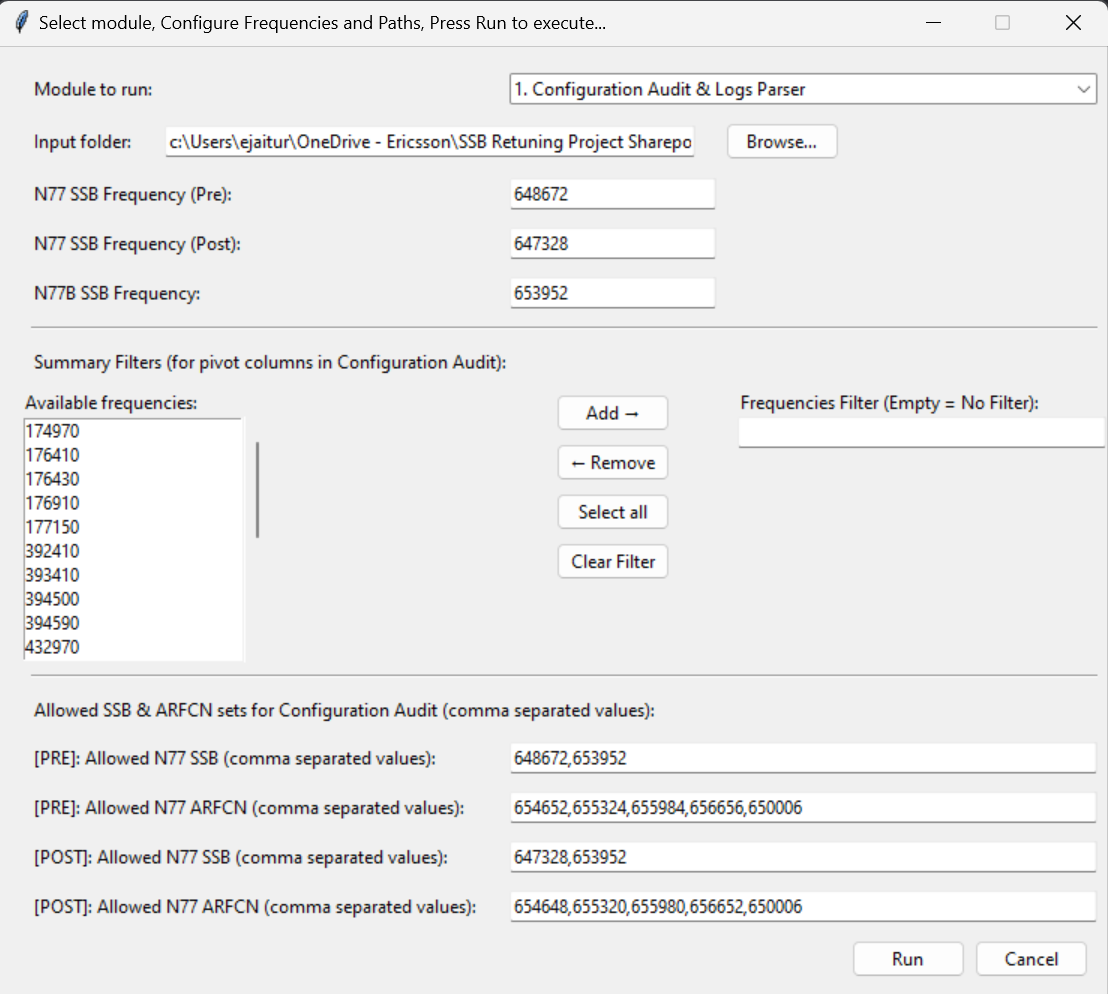
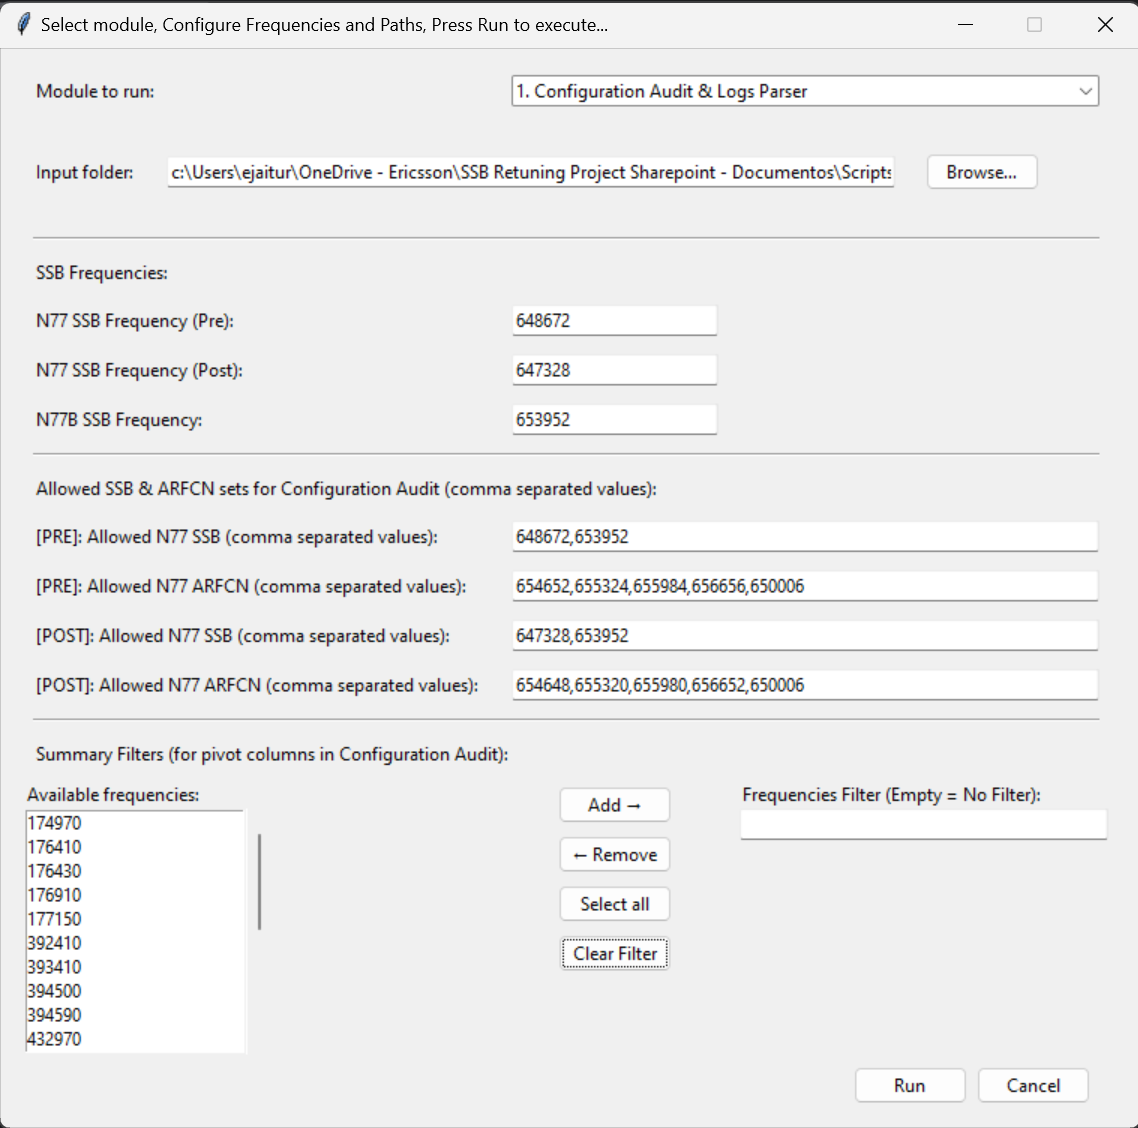
- Fixed Long path issues on Windows. - Redesigned GUI Dialog.

diff --git a/src/RetuningAutomations.py b/src/RetuningAutomations.py
@@ -29,7 +29,7 @@ from pathlib import Path
 # Import our different Classes
 from src.utils.utils_datetime import format_duration_hms
 from src.utils.utils_infrastructure import LoggerDual
-from src.utils.utils_io import normalize_csv_list, parse_arfcn_csv_to_set, load_cfg_values, save_cfg_values, log_module_exception
+from src.utils.utils_io import normalize_csv_list, parse_arfcn_csv_to_set, load_cfg_values, save_cfg_values, log_module_exception, to_long_path, pretty_path
 
 from src.modules.ConsistencyChecks.ConsistencyChecks import ConsistencyChecks
 from src.modules.ConfigurationAudit import ConfigurationAudit
@@ -194,7 +194,7 @@ def gui_config_dialog(
     # Center window
     try:
         root.update_idletasks()
-        w, h = 740, 680
+        w, h = 760, 720
         sw = root.winfo_screenwidth()
         sh = root.winfo_screenheight()
         x = (sw // 2) - (w // 2)
@@ -228,22 +228,29 @@ def gui_config_dialog(
     cmb = ttk.Combobox(frm, textvariable=module_var, values=MODULE_NAMES, state="readonly", width=50)
     cmb.grid(row=0, column=1, columnspan=2, sticky="ew", **pad)
 
-    # Single-input frame
-    single_frame = ttk.Frame(frm)
-    ttk.Label(single_frame, text="Input folder:").grid(row=0, column=0, sticky="w", **pad)
-    ttk.Entry(single_frame, textvariable=input_var, width=58).grid(row=0, column=1, sticky="ew", **pad)
-
     def browse_single():
         path = filedialog.askdirectory(title="Select input folder", initialdir=input_var.get() or os.getcwd())
         if path:
             input_var.set(path)
 
-    ttk.Button(single_frame, text="Browse…", command=browse_single).grid(row=0, column=2, sticky="ew", **pad)
+    # Single-input frame
+    single_frame = ttk.Frame(frm)
+
+    # Spacer row so single_frame has similar height to dual_frame
+    ttk.Label(single_frame, text="").grid(row=0, column=0, columnspan=3, sticky="w")
+
+    # Single-input frame
+    ttk.Label(single_frame, text="Input folder:").grid(row=1, column=0, sticky="w", **pad)
+    ttk.Entry(single_frame, textvariable=input_var, width=80).grid(row=1, column=1, sticky="ew", **pad)
+    ttk.Button(single_frame, text="Browse…", command=browse_single).grid(row=1, column=2, sticky="ew", **pad)
+
+    # Spacer row so single_frame has similar height to dual_frame
+    ttk.Label(single_frame, text="").grid(row=2, column=0, columnspan=3, sticky="w")
 
     # Dual-input frame
     dual_frame = ttk.Frame(frm)
     ttk.Label(dual_frame, text="Pre input folder:").grid(row=0, column=0, sticky="w", **pad)
-    ttk.Entry(dual_frame, textvariable=input_pre_var, width=58).grid(row=0, column=1, sticky="ew", **pad)
+    ttk.Entry(dual_frame, textvariable=input_pre_var, width=80).grid(row=0, column=1, sticky="ew", **pad)
 
     def browse_pre():
         path = filedialog.askdirectory(title="Select PRE input folder", initialdir=input_pre_var.get() or os.getcwd())
@@ -253,7 +260,7 @@ def gui_config_dialog(
     ttk.Button(dual_frame, text="Browse…", command=browse_pre).grid(row=0, column=2, sticky="ew", **pad)
 
     ttk.Label(dual_frame, text="Post input folder:").grid(row=1, column=0, sticky="w", **pad)
-    ttk.Entry(dual_frame, textvariable=input_post_var, width=58).grid(row=1, column=1, sticky="ew", **pad)
+    ttk.Entry(dual_frame, textvariable=input_post_var, width=80).grid(row=1, column=1, sticky="ew", **pad)
 
     def browse_post():
         path = filedialog.askdirectory(title="Select POST input folder", initialdir=input_post_var.get() or os.getcwd())
@@ -274,23 +281,39 @@ def gui_config_dialog(
     refresh_input_mode()
 
     # Frecuencias
-    ttk.Label(frm, text="N77 SSB Frequency (Pre):").grid(row=2, column=0, sticky="w", **pad)
-    ttk.Entry(frm, textvariable=n77_ssb_pre_var, width=22).grid(row=2, column=1, sticky="w", **pad)
+    ttk.Separator(frm).grid(row=2, column=0, columnspan=3, sticky="ew", **pad)
+    ttk.Label(frm, text="SSB Frequencies:").grid(row=3, column=0, columnspan=3, sticky="w", **pad)
+    ttk.Label(frm, text="N77 SSB Frequency (Pre):").grid(row=4, column=0, sticky="w", **pad)
+    ttk.Entry(frm, textvariable=n77_ssb_pre_var, width=22).grid(row=4, column=1, sticky="w", **pad)
 
-    ttk.Label(frm, text="N77 SSB Frequency (Post):").grid(row=3, column=0, sticky="w", **pad)
-    ttk.Entry(frm, textvariable=n77_ssb_post_var, width=22).grid(row=3, column=1, sticky="w", **pad)
+    ttk.Label(frm, text="N77 SSB Frequency (Post):").grid(row=5, column=0, sticky="w", **pad)
+    ttk.Entry(frm, textvariable=n77_ssb_post_var, width=22).grid(row=5, column=1, sticky="w", **pad)
 
-    ttk.Label(frm, text="N77B SSB Frequency:").grid(row=4, column=0, sticky="w", **pad)
-    ttk.Entry(frm, textvariable=n77b_ssb_var, width=22).grid(row=4, column=1, sticky="w", **pad)
+    ttk.Label(frm, text="N77B SSB Frequency:").grid(row=6, column=0, sticky="w", **pad)
+    ttk.Entry(frm, textvariable=n77b_ssb_var, width=22).grid(row=6, column=1, sticky="w", **pad)
+
+    # ARFCN lists
+    ttk.Separator(frm).grid(row=7, column=0, columnspan=3, sticky="ew", **pad)
+    ttk.Label(frm, text="Allowed SSB & ARFCN sets for Configuration Audit (comma separated values):").grid(row=8, column=0, columnspan=3, sticky="w", **pad)
+
+    ttk.Label(frm, text="[PRE]: Allowed N77 SSB (comma separated values):").grid(row=9, column=0, sticky="w", **pad)
+    ttk.Entry(frm, textvariable=allowed_n77_ssb_pre_var, width=40).grid(row=9, column=1, columnspan=2, sticky="ew", **pad)
+
+    ttk.Label(frm, text="[PRE]: Allowed N77 ARFCN (comma separated values):").grid(row=10, column=0, sticky="w", **pad)
+    ttk.Entry(frm, textvariable=allowed_n77_arfcn_pre_var, width=40).grid(row=10, column=1, columnspan=2, sticky="ew", **pad)
+
+    ttk.Label(frm, text="[POST]: Allowed N77 SSB (comma separated values):").grid(row=11, column=0, sticky="w", **pad)
+    ttk.Entry(frm, textvariable=allowed_n77_ssb_post_var, width=40).grid(row=11, column=1, columnspan=2, sticky="ew", **pad)
+
+    ttk.Label(frm, text="[POST]: Allowed N77 ARFCN (comma separated values):").grid(row=12, column=0, sticky="w", **pad)
+    ttk.Entry(frm, textvariable=allowed_n77_arfcn_post_var, width=40).grid(row=12, column=1, columnspan=2, sticky="ew", **pad)
 
     # Filtros Summary
-    ttk.Separator(frm).grid(row=5, column=0, columnspan=3, sticky="ew", **pad)
-    ttk.Label(frm, text="Summary Filters (for pivot columns in Configuration Audit):").grid(
-        row=6, column=0, columnspan=3, sticky="w", **pad
-    )
+    ttk.Separator(frm).grid(row=13, column=0, columnspan=3, sticky="ew", **pad)
+    ttk.Label(frm, text="Summary Filters (for pivot columns in Configuration Audit):").grid(row=14, column=0, columnspan=3, sticky="w", **pad)
 
     list_frame = ttk.Frame(frm)
-    list_frame.grid(row=7, column=0, columnspan=1, sticky="nsw", **pad_tight)
+    list_frame.grid(row=15, column=0, columnspan=1, sticky="nsw", **pad_tight)
     ttk.Label(list_frame, text="Available frequencies:").pack(anchor="w")
 
     lb_container = ttk.Frame(list_frame)
@@ -313,10 +336,10 @@ def gui_config_dialog(
     scrollbar.config(command=lb.yview)
 
     btns_frame = ttk.Frame(frm)
-    btns_frame.grid(row=7, column=1, sticky="n", **pad_tight)
+    btns_frame.grid(row=15, column=1, sticky="n", **pad_tight)
 
     right_frame = ttk.Frame(frm)
-    right_frame.grid(row=7, column=2, sticky="nsew", **pad_tight)
+    right_frame.grid(row=15, column=2, sticky="nsew", **pad_tight)
     ttk.Label(right_frame, text="Frequencies Filter (Empty = No Filter):").grid(row=0, column=0, sticky="w")
     ttk.Entry(right_frame, textvariable=selected_csv_var, width=40).grid(row=1, column=0, sticky="ew")
 
@@ -347,26 +370,8 @@ def gui_config_dialog(
     ttk.Button(btns_frame, text="Select all", command=select_all).pack(pady=4, fill="x")
     ttk.Button(btns_frame, text="Clear Filter", command=clear_filters).pack(pady=4, fill="x")
 
-    # ARFCN lists
-    ttk.Separator(frm).grid(row=8, column=0, columnspan=3, sticky="ew", **pad)
-    ttk.Label(frm, text="Allowed SSB & ARFCN sets for Configuration Audit (comma separated values):").grid(
-        row=9, column=0, columnspan=3, sticky="w", **pad
-    )
-
-    ttk.Label(frm, text="[PRE]: Allowed N77 SSB (comma separated values):").grid(row=10, column=0, sticky="w", **pad)
-    ttk.Entry(frm, textvariable=allowed_n77_ssb_pre_var, width=40).grid(row=10, column=1, columnspan=2, sticky="ew", **pad)
-
-    ttk.Label(frm, text="[PRE]: Allowed N77 ARFCN (comma separated values):").grid(row=11, column=0, sticky="w", **pad)
-    ttk.Entry(frm, textvariable=allowed_n77_arfcn_pre_var, width=40).grid(row=11, column=1, columnspan=2, sticky="ew", **pad)
-
-    ttk.Label(frm, text="[POST]: Allowed N77 SSB (comma separated values):").grid(row=12, column=0, sticky="w", **pad)
-    ttk.Entry(frm, textvariable=allowed_n77_ssb_post_var, width=40).grid(row=12, column=1, columnspan=2, sticky="ew", **pad)
-
-    ttk.Label(frm, text="[POST]: Allowed N77 ARFCN (comma separated values):").grid(row=13, column=0, sticky="w", **pad)
-    ttk.Entry(frm, textvariable=allowed_n77_arfcn_post_var, width=40).grid(row=13, column=1, columnspan=2, sticky="ew", **pad)
-
     btns = ttk.Frame(frm)
-    btns.grid(row=14, column=0, columnspan=3, sticky="e", **pad)
+    btns.grid(row=999, column=0, columnspan=3, sticky="e", **pad)
 
     def on_run():
         nonlocal result
@@ -481,11 +486,14 @@ def run_configuration_audit(
 
     module_name = "[Configuration Audit]"
     print(f"{module_name} Running…")
-    print(f"{module_name} Input folder: '{input_dir}'")
+    print(f"{module_name} Input folder: '{pretty_path(input_dir)}'")
     if freq_filters_csv:
         print(f"{module_name} Summary column filters: {freq_filters_csv}")
 
-    # ARFCN principales
+    # Use long-path version for filesystem operations
+    input_dir_fs = to_long_path(input_dir) if input_dir else input_dir
+
+    # SSB Pre/Post
     try:
         n77_ssb_pre = int(n77_ssb_pre) if n77_ssb_pre else int(DEFAULT_N77_SSB_PRE)
     except ValueError:
@@ -549,9 +557,9 @@ def run_configuration_audit(
     versioned_suffix = f"{timestamp}_v{TOOL_VERSION}"
 
     # <<< Create dedicated output folder for ConfigurationAudit >>>
-    output_dir = os.path.join(input_dir, f"ConfigurationAudit_{versioned_suffix}")
+    output_dir = os.path.join(input_dir_fs, f"ConfigurationAudit_{versioned_suffix}")
     os.makedirs(output_dir, exist_ok=True)
-    print(f"{module_name} Output folder: '{output_dir}'")
+    print(f"{module_name} Output folder: '{pretty_path(output_dir)}'")
 
     # Progressive fallback in case the installed ConfigurationAudit has an older signature
     try:
@@ -592,24 +600,29 @@ def run_configuration_audit(
                 )
 
     # <<< Include output_dir in kwargs passed to ConfigurationAudit.run >>>
-    kwargs = dict(module_name=module_name, versioned_suffix=versioned_suffix, tables_order=TABLES_ORDER, output_dir=output_dir)
+    kwargs = dict(
+        module_name=module_name,
+        versioned_suffix=versioned_suffix,
+        tables_order=TABLES_ORDER,
+        output_dir=output_dir,
+    )
     if freq_filters_csv:
         kwargs["filter_frequencies"] = [x.strip() for x in freq_filters_csv.split(",") if x.strip()]
 
     try:
-        out = app.run(input_dir, **kwargs)
+        out = app.run(input_dir_fs, **kwargs)
     except TypeError:
         # Legacy fallback: ConfigurationAudit without output_dir / filters
         print(f"{module_name} [WARN] Installed ConfigurationAudit does not support 'output_dir' and/or 'filter_frequencies'. Running with legacy signature.")
-        out = app.run(input_dir, module_name=module_name, versioned_suffix=versioned_suffix, tables_order=TABLES_ORDER)
+        out = app.run(input_dir_fs, module_name=module_name, versioned_suffix=versioned_suffix, tables_order=TABLES_ORDER)
 
     if out:
-        print(f"{module_name} Done → '{out}'")
-        # <<< Hint about folder when using the new layout >>>
+        print(f"{module_name} Done → '{pretty_path(out)}'")
         if os.path.isdir(output_dir):
-            print(f"{module_name} Outputs saved to: '{output_dir}'")
+            print(f"{module_name} Outputs saved to: '{pretty_path(output_dir)}'")
     else:
         print(f"{module_name}  No logs found or nothing written.")
+
 
 
 
@@ -628,16 +641,21 @@ def run_consistency_checks(input_pre_dir: Optional[str], input_post_dir: Optiona
     app = ConsistencyChecks(n77_ssb_pre=n77_ssb_pre, n77_ssb_post=n77_ssb_post)
 
     if input_pre_dir and input_post_dir:
-        print(f"{module_name} PRE folder:  '{input_pre_dir}'")
-        print(f"{module_name} POST folder: '{input_post_dir}'")
+        # Rutas que usamos para el filesystem (long path safe en Windows)
+        input_pre_dir_fs = to_long_path(input_pre_dir)
+        input_post_dir_fs = to_long_path(input_post_dir)
+
+        # Logs “bonitos” sin el prefijo \\?\
+        print(f"{module_name} PRE folder:  '{pretty_path(input_pre_dir_fs)}'")
+        print(f"{module_name} POST folder: '{pretty_path(input_post_dir_fs)}'")
 
         loaded = False
         try:
-            app.loadPrePost(input_pre_dir, input_post_dir)
+            app.loadPrePost(input_pre_dir_fs, input_post_dir_fs)
             loaded = True
         except TypeError:
             try:
-                app.loadPrePostFromFolders(input_pre_dir, input_post_dir)
+                app.loadPrePostFromFolders(input_pre_dir_fs, input_post_dir_fs)
                 loaded = True
             except Exception:
                 loaded = False
@@ -647,14 +665,16 @@ def run_consistency_checks(input_pre_dir: Optional[str], input_post_dir: Optiona
             print(f"{module_name}         Please update ConsistencyChecks.loadPrePost(pre_dir, post_dir) to enable dual-input mode.")
             return
 
-        output_dir = os.path.join(input_post_dir, f"ConsistencyChecks_{versioned_suffix}")
+        output_dir = os.path.join(input_post_dir_fs, f"ConsistencyChecks_{versioned_suffix}")
     else:
         input_dir = input_pre_dir or ""
-        print(f"{module_name} Input folder: '{input_dir}'")
+        input_dir_fs = to_long_path(input_dir) if input_dir else input_dir
+
+        print(f"{module_name} Input folder: '{pretty_path(input_dir_fs)}'")
 
         pre_found, post_found = False, False
         try:
-            for entry in os.scandir(input_dir):
+            for entry in os.scandir(input_dir_fs or input_dir):
                 if not entry.is_dir():
                     continue
                 tag = ConsistencyChecks._detect_prepost(entry.name)
@@ -682,8 +702,8 @@ def run_consistency_checks(input_pre_dir: Optional[str], input_post_dir: Optiona
                 print(f"{module_name} [WARNING] {msg}")
             return
 
-        app.loadPrePost(input_dir)
-        output_dir = os.path.join(input_dir, f"ConsistencyChecks_{versioned_suffix}")
+        app.loadPrePost(input_dir_fs or input_dir)
+        output_dir = os.path.join(input_dir_fs or input_dir, f"ConsistencyChecks_{versioned_suffix}")
 
     results = None
 
@@ -697,45 +717,52 @@ def run_consistency_checks(input_pre_dir: Optional[str], input_post_dir: Optiona
 
     app.save_outputs_excel(output_dir, results, versioned_suffix=versioned_suffix)
 
-    print(f"\n{module_name} Outputs saved to: '{output_dir}'")
+    print(f"\n{module_name} Outputs saved to: '{pretty_path(output_dir)}'")
     if results:
         print(f"{module_name} Wrote CellRelation.xlsx and CellRelationDiscrepancies.xlsx (with Summary and details).")
     else:
         print(f"{module_name} Wrote CellRelation.xlsx (all tables). No comparison Excel because frequencies were not provided.")
 
 
+
 def run_initial_cleanup(input_dir: str, *_args) -> None:
     module_name = "[Initial Clean-Up]"
+    input_dir_fs = to_long_path(input_dir) if input_dir else input_dir
+
     print(f"{module_name} Running…")
-    print(f"{module_name} Input folder: '{input_dir}'")
+    print(f"{module_name} Input folder: '{pretty_path(input_dir_fs)}'")
 
     timestamp = datetime.now().strftime("%Y%m%d-%H%M%S")
     versioned_suffix = f"{timestamp}_v{TOOL_VERSION}"
 
     app = InitialCleanUp()
-    out = app.run(input_dir, module_name=module_name, versioned_suffix=versioned_suffix)
+    out = app.run(input_dir_fs, module_name=module_name, versioned_suffix=versioned_suffix)
 
     if out:
-        print(f"{module_name} Done → '{out}'")
+        print(f"{module_name} Done → '{pretty_path(out)}'")
     else:
         print(f"{module_name} Module logic not yet implemented (under development). Exiting...")
 
 
+
 def run_final_cleanup(input_dir: str, *_args) -> None:
     module_name = "[Final Clean-Up]"
+    input_dir_fs = to_long_path(input_dir) if input_dir else input_dir
+
     print(f"{module_name} Running…")
-    print(f"{module_name} Input folder: '{input_dir}'")
+    print(f"{module_name} Input folder: '{pretty_path(input_dir_fs)}'")
 
     timestamp = datetime.now().strftime("%Y%m%d-%H%M%S")
     versioned_suffix = f"{timestamp}_v{TOOL_VERSION}"
 
     app = FinalCleanUp()
-    out = app.run(input_dir, module_name=module_name, versioned_suffix=versioned_suffix)
+    out = app.run(input_dir_fs, module_name=module_name, versioned_suffix=versioned_suffix)
 
     if out:
-        print(f"{module_name} Done → '{out}'")
+        print(f"{module_name} Done → '{pretty_path(out)}'")
     else:
         print(f"{module_name} Module logic not yet implemented (under development). Exiting...")
+
 
 
 def resolve_module_callable(name: str):

diff --git a/src/modules/ConfigurationAudit/ConfigurationAudit.py b/src/modules/ConfigurationAudit/ConfigurationAudit.py
@@ -4,7 +4,7 @@ import os
 from typing import List, Tuple, Optional, Dict
 import pandas as pd
 
-from src.utils.utils_io import find_log_files, read_text_file, to_long_path
+from src.utils.utils_io import find_log_files, read_text_file, to_long_path, pretty_path
 from src.utils.utils_parsing import SUMMARY_RE, find_all_subnetwork_headers, extract_mo_from_subnetwork_line, parse_table_slice_from_subnetwork, parse_log_lines, find_subnetwork_header_index, extract_mo_name_from_previous_line, cap_rows
 from src.utils.utils_excel import sanitize_sheet_name, unique_sheet_name, color_summary_tabs, apply_alternating_category_row_fills, style_headers_autofilter_and_autofit
 from src.utils.utils_sorting import natural_logfile_key
@@ -422,7 +422,7 @@ class ConfigurationAudit:
             # Apply header color + auto-fit to all sheets
             style_headers_autofilter_and_autofit(writer, freeze_header=True, align="left")
 
-        print(f"{module_name} Wrote Excel with {len(table_entries)} sheet(s) in: '{excel_path}'")
+        print(f"{module_name} Wrote Excel with {len(table_entries)} sheet(s) in: '{pretty_path(excel_path)}'")
 
         # =====================================================================
         #                PHASE 6: Generate PPT textual summary
@@ -430,7 +430,7 @@ class ConfigurationAudit:
         try:
             ppt_path = generate_ppt_summary(summary_audit_df, excel_path, module_name)
             if ppt_path:
-                print(f"{module_name} PPT summary generated in: '{ppt_path}'")
+                print(f"{module_name} PPT summary generated in: '{pretty_path(ppt_path)}'")
         except Exception as ex:
             # Never fail the whole module just for PPT creation
             print(f"{module_name} [WARN] PPT summary generation failed: {ex}")

diff --git a/src/utils/utils_io.py b/src/utils/utils_io.py
@@ -255,3 +255,9 @@ def to_long_path(path: str) -> str:
     else:
         # Local drive path: C:\...
         return "\\\\?\\" + abs_path
+
+def pretty_path(path: str) -> str:
+    """Remove Windows long-path prefix (\\?\\) for logging/display."""
+    if os.name == "nt" and isinstance(path, str) and path.startswith("\\\\?\\"):
+        return path[4:]
+    return path

diff --git a/CHANGELOG.md b/CHANGELOG.md
@@ -14,6 +14,7 @@
   - #### 🌟 New Features:
 
   - #### 🚀 Enhancements:
+    - Redesigned GUI Dialog.
   
   - #### 🐛 Bug fixes:
     - Fixed Long path issues on Windows.
